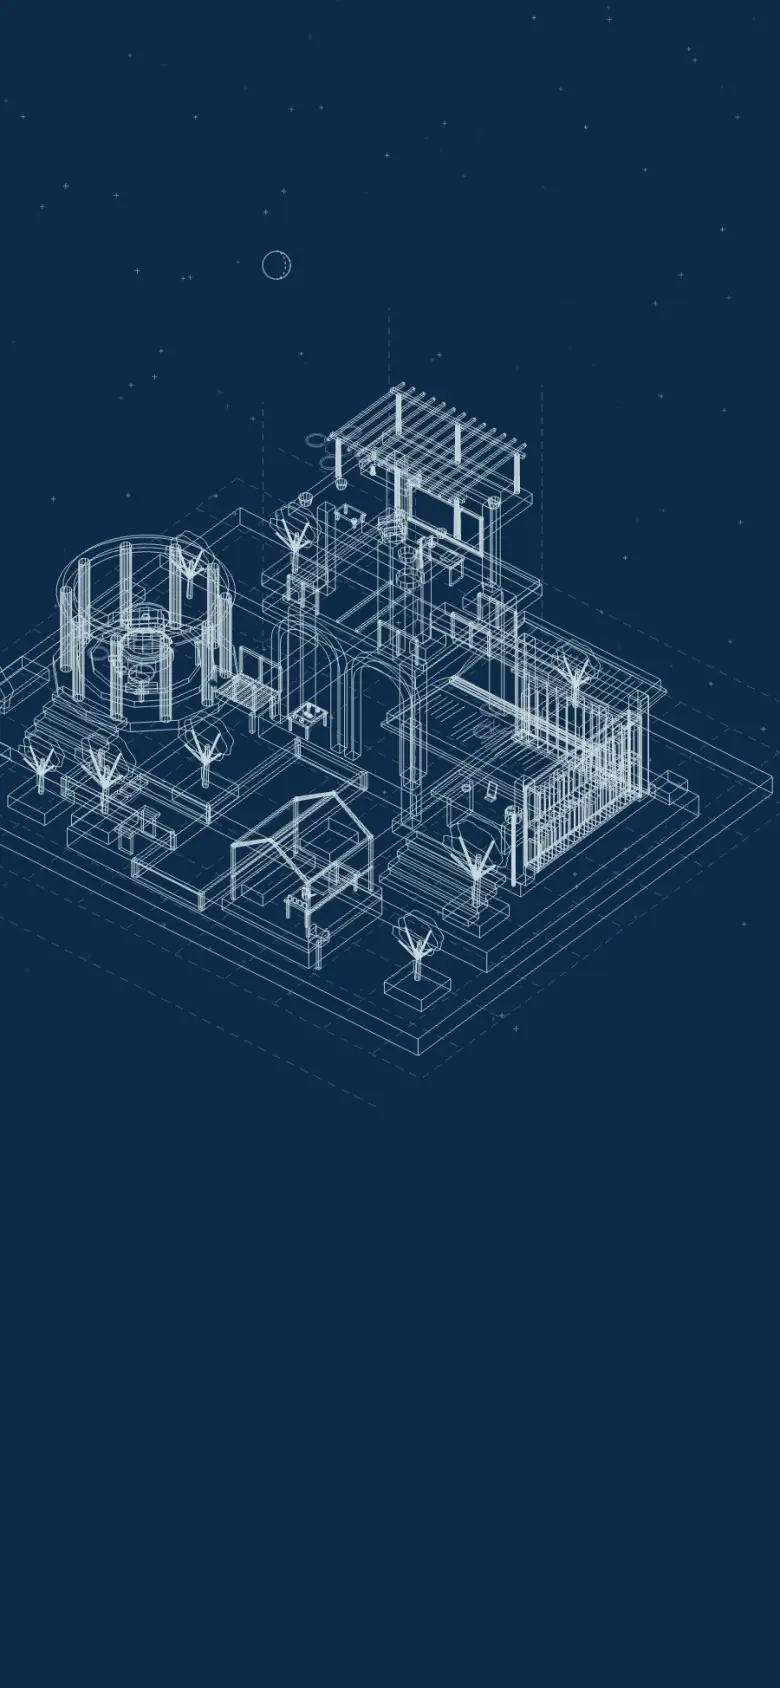
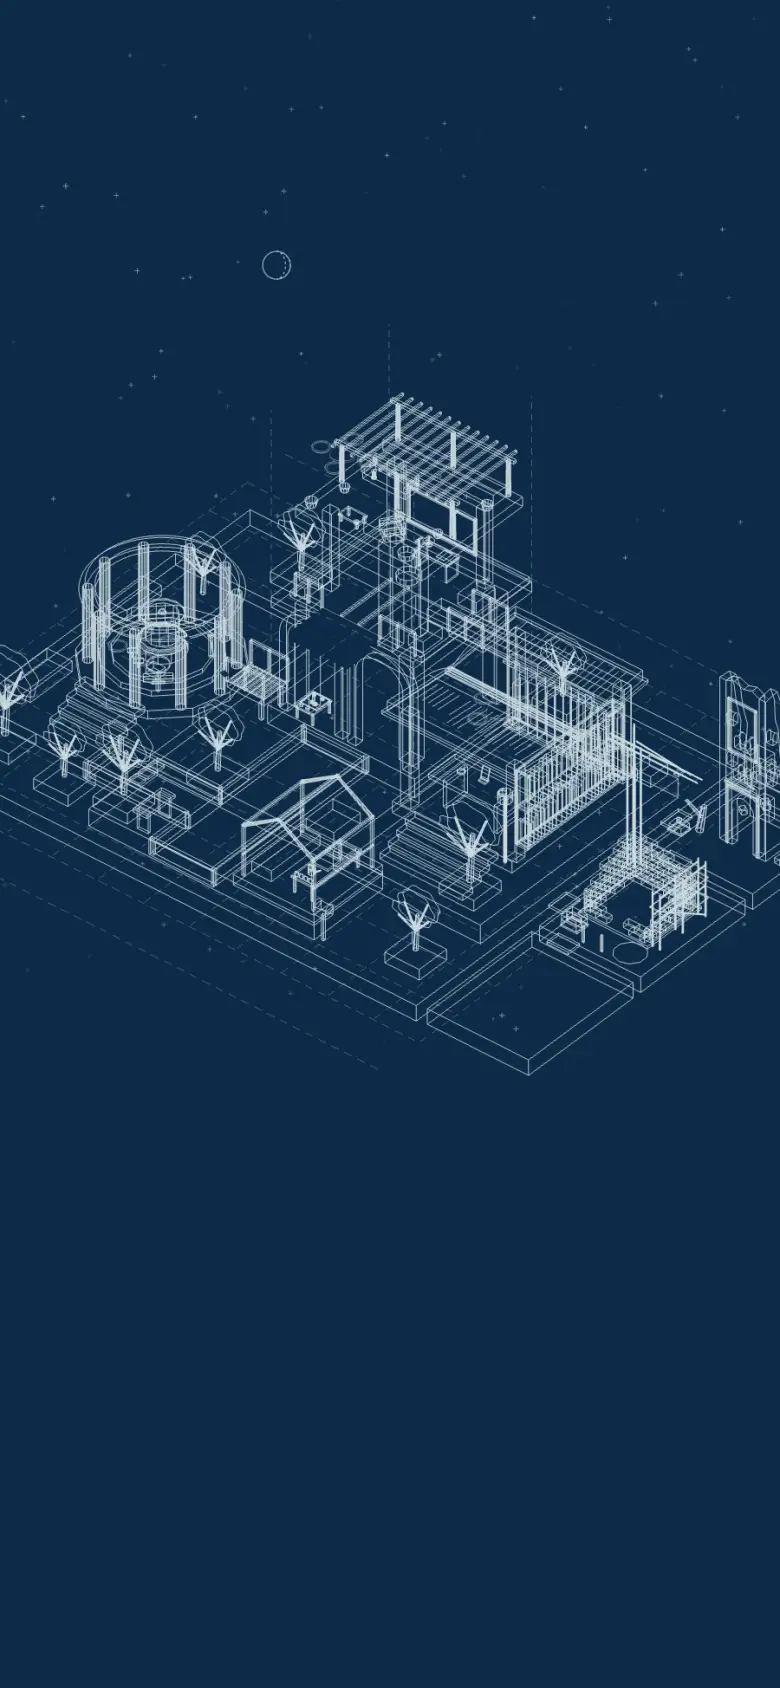
add,scene,enhance garden scene with Mansourah minaret and related structures

Changed region(s): [[0.0, 0.2156, 1.0, 0.6161]]

diff --git a/src/scene.ts b/src/scene.ts
@@ -132,6 +132,9 @@ export async function createGarden(
     // their colour all year and don't sway.
     ochre: 0xe7b763,
     terracotta: 0xce8265,
+    // The warm, rosy stone of Mansourah, and its shade for carved relief.
+    sandstone: 0xd8a87c,
+    sandstoneDark: 0xb98559,
   };
   type ColorName = keyof typeof colors;
   const batches = new Map<ColorName, T.BufferGeometry[]>();
@@ -1093,6 +1096,327 @@ export async function createGarden(
   for (const z of [3.25, 3.8]) box(-0.98, 0.68, z, 0.24, 0.48, 0.05, "dark");
   cylinder(4.36, 1.4, 0.75, 0.027, 1.6, "dark");
   cylinder(4.36, 2.21, 0.75, 0.13, 0.19, "flower");
+
+  await checkpoint("mansourah");
+  // A tile of its own beside the garden: the Mansourah minaret of Tlemcen.
+  // Only its front half still stands, so the gate faces forward and the
+  // side walls break off in steps towards the back. Uses vary(), not
+  // random(), so the rest of the garden keeps its sequence.
+  const tileX = 6.7,
+    tileZ = -2.975;
+  box(tileX, -0.03, tileZ, 2.2, 0.38, 2.75, "stone");
+  box(5.5, 0.13, tileZ + 0.6, 0.3, 0.06, 0.46, "light");
+  // Up one side of a pointed horseshoe arch and down the other, from the
+  // foot of its jambs at (x, y), springing at y + h with half-width r.
+  const horseshoe = (x: number, y: number, r: number, h: number) => {
+    const R = r * 1.25,
+      o = R - r,
+      turn = 0.3,
+      top = Math.acos(-o / R),
+      jamb = R * Math.cos(turn) - o,
+      side: [number, number][] = [];
+    for (let i = 0; i <= 8; i++) {
+      const a = Math.PI + turn - (i / 8) * (Math.PI + turn - top);
+      side.push([o + R * Math.cos(a), h + R * Math.sin(a)]);
+    }
+    return [
+      [-jamb, 0],
+      ...side,
+      ...side.reverse().map(([u, v]) => [-u, v]),
+      [jamb, 0],
+    ].map(([u, v]) => new T.Vector2(x + u, y + v));
+  };
+  const minX = tileX + 0.2,
+    minZ = tileZ + 0.05,
+    minY = 0.16,
+    minH = 4,
+    front = minZ + 0.5;
+  // The gate's façade, with the balcony's three arches and two windows.
+  const facade = new T.Shape([
+    new T.Vector2(-0.36, 0),
+    ...horseshoe(0, 0, 0.24, 0.95),
+    new T.Vector2(0.36, 0),
+    new T.Vector2(0.36, minH - 0.1),
+    new T.Vector2(0.2, minH),
+    new T.Vector2(0.02, minH - 0.06),
+    new T.Vector2(-0.18, minH + 0.03),
+    new T.Vector2(-0.36, minH - 0.05),
+  ]);
+  for (const x of [-0.15, 0, 0.15])
+    facade.holes.push(new T.Path(horseshoe(x, 1.66, 0.055, 0.18)));
+  for (const x of [-0.11, 0.11])
+    facade.holes.push(new T.Path(horseshoe(x, 2.42, 0.07, 0.22)));
+  add(
+    new T.ExtrudeGeometry(facade, { depth: 0.14, bevelEnabled: false }),
+    minX,
+    minY,
+    front - 0.14,
+    "sandstone",
+  );
+  // The side walls, measured back from the façade, end in a ragged edge.
+  const ruin: [number, number][][] = [
+    [[0.86, 0], [0.86, 0.45], [0.7, 0.62], [0.62, 1.3], [0.68, 1.5], [0.55, 2.1],
+      [0.5, 2.8], [0.42, 3.1], [0.4, 3.6], [0.3, minH - 0.05], [0, minH - 0.1]],
+    [[0.8, 0], [0.8, 0.7], [0.66, 0.9], [0.66, 1.6], [0.52, 1.9], [0.56, 2.5],
+      [0.44, 3.0], [0.38, 3.5], [0.26, minH - 0.08], [0, minH - 0.05]],
+  ];
+  ruin.forEach((edge, k) => {
+    const wall = new T.Shape(
+      [[0, 0], ...edge].map(([u, v]) => new T.Vector2(u, v)),
+    );
+    for (const y of [1.7, 2.7])
+      wall.holes.push(new T.Path(horseshoe(0.25, y, 0.06, 0.2)));
+    add(
+      new T.ExtrudeGeometry(wall, { depth: 0.14, bevelEnabled: false }),
+      k ? minX - 0.5 : minX + 0.36,
+      minY,
+      front,
+      "sandstone",
+      [0, Math.PI / 2, 0],
+    );
+  });
+  // What is left of the back wall.
+  box(minX, minY + 0.14, minZ - 0.43, 0.72, 0.28, 0.14, "sandstone");
+  box(minX - 0.25, minY + 0.25, minZ - 0.43, 0.22, 0.5, 0.14, "sandstone");
+  // Carved relief on the façade: the frame round the gate, a cornice and
+  // the balcony's ledge, the lozenge net of the sebka panel, and the band
+  // of green and white tiles near the top.
+  const relief = (x: number, y: number, w: number, h: number, d = 0.025) =>
+    box(minX + x, minY + y, front + d / 2, w, h, d, "sandstoneDark");
+  for (const x of [-0.33, 0.33]) relief(x, 0.71, 0.045, 1.42);
+  relief(0, 1.42, 0.7, 0.045);
+  relief(0, 1.52, 0.72, 0.06, 0.05);
+  relief(0, 1.63, 0.5, 0.04, 0.12);
+  for (const x of [-0.29, 0.29]) relief(x, 2.94, 0.04, 1.24);
+  for (const y of [2.32, 3.56]) relief(0, y, 0.62, 0.04);
+  for (let row = 0; row < 5; row++)
+    for (let col = 0; col < 4 + (row % 2); col++)
+      add(
+        new T.BoxGeometry(0.08, 0.08, 0.02),
+        minX - 0.18 - (row % 2) * 0.06 + col * 0.12,
+        minY + 2.84 + row * 0.14,
+        front + 0.01,
+        "sandstoneDark",
+        [0, 0, Math.PI / 4],
+        false,
+      );
+  for (let i = 0; i < 9; i++)
+    box(minX - 0.32 + i * 0.08, minY + 3.76, front + 0.008, 0.07, 0.09, 0.016,
+      i % 2 ? "light" : "dark", false);
+  // Mansourah's rammed-earth rampart behind, with a square tower and merlons.
+  box(tileX + 0.05, minY + 0.2, tileZ - 1.15, 1.9, 0.4, 0.16, "sandstoneDark");
+  box(tileX - 0.8, minY + 0.32, tileZ - 1.1, 0.36, 0.64, 0.36, "sandstoneDark");
+  for (let i = 0; i < 8; i++)
+    if (i !== 4 && i !== 5)
+      box(tileX - 0.6 + i * 0.22, minY + 0.46, tileZ - 1.15, 0.1, 0.12, 0.16,
+        "sandstoneDark");
+  // Fallen blocks, an old olive tree and a little grass.
+  for (const [x, z, s] of [
+    [0.75, -0.55, 0.16],
+    [-0.25, -0.6, 0.13],
+    [0.9, 0.4, 0.12],
+    [-0.45, -0.25, 0.1],
+  ])
+    add(new T.BoxGeometry(s * 1.4, s, s), tileX + x, minY + s / 2, tileZ + z, "sandstone", [
+      0,
+      vary(x, z) * 3,
+      0,
+    ]);
+  const olive = new T.Vector3(tileX - 0.7, minY, tileZ + 0.6);
+  beam(olive, olive.clone().add(new T.Vector3(0.07, 0.6, -0.04)), 0.07);
+  beam(
+    olive.clone().add(new T.Vector3(0.04, 0.35, 0)),
+    olive.clone().add(new T.Vector3(-0.2, 0.7, 0.1)),
+    0.035,
+  );
+  for (let i = 0; i < 7; i++) {
+    const a = i * 2.4,
+      r = 0.12 + vary(i, 7) * 0.2;
+    const g = new T.IcosahedronGeometry(0.17 + vary(i, 8) * 0.08, 1);
+    g.scale(1, 0.7, 1);
+    add(
+      g,
+      olive.x + Math.cos(a) * r,
+      olive.y + 0.72 + vary(i, 9) * 0.22,
+      olive.z + Math.sin(a) * r,
+      i % 2 ? "leaf" : "leafDark",
+      [vary(i, 10), vary(i, 11), 0],
+      false,
+    );
+  }
+  for (let i = 0; i < 10; i++)
+    add(
+      new T.ConeGeometry(0.05, 0.22, 4),
+      tileX - 1.0 + vary(i, 12) * 2.0,
+      minY + 0.1,
+      tileZ - 0.75 + vary(i, 13) * 1.6,
+      "grass",
+      [0, vary(i, 14) * 4, 0.2],
+      false,
+    );
+
+  await checkpoint("building-site");
+  // In front of Mansourah, two more tiles: a building site, then a plot left
+  // empty for whatever comes next.
+  const siteZ = tileZ + 2.95,
+    siteY = 0.22;
+  box(tileX, -0.03, siteZ, 2.2, 0.38, 2.75, "stone");
+  box(tileX, -0.03, siteZ + 2.95, 2.2, 0.38, 2.75, "stone");
+  box(tileX - 0.5, 0.13, tileZ + 1.475, 0.46, 0.06, 0.3, "light");
+  box(tileX - 0.5, 0.13, siteZ + 1.475, 0.46, 0.06, 0.3, "light");
+  box(5.5, 0.13, siteZ + 0.6, 0.3, 0.06, 0.46, "light");
+  box(tileX - 0.05, 0.19, siteZ, 1.5, 0.06, 1.42, "trim");
+  // Walls laid in courses of stone, running bond, each column of a wall as
+  // high as it has got so far. The front wall leaves a gap for the door.
+  const course = 0.12,
+    brick = 0.24;
+  const wall = (
+    x: number,
+    z: number,
+    axis: "x" | "z",
+    length: number,
+    heights: number[],
+  ) => {
+    for (let c = 0; c < Math.max(...heights); c++)
+      for (let s = c % 2 ? -brick / 2 : 0; s < length; s += brick) {
+        const a = Math.max(s, 0),
+          b = Math.min(s + brick, length);
+        if (c >= heights[Math.floor((a + b) / 2 / brick)]) continue;
+        const along = (a + b) / 2;
+        box(
+          axis === "x" ? x + along : x,
+          siteY + course * (c + 0.5),
+          axis === "z" ? z + along : z,
+          axis === "x" ? b - a : 0.14,
+          course,
+          axis === "z" ? b - a : 0.14,
+          "light",
+        );
+      }
+  };
+  const x0 = tileX - 0.7,
+    x1 = tileX + 0.6,
+    z0 = siteZ - 0.6,
+    z1 = siteZ + 0.6;
+  wall(x0, z0, "x", x1 - x0, [9, 9, 8, 8, 7, 6]);
+  wall(x0, z0 + 0.07, "z", z1 - z0 - 0.07, [9, 8, 7, 5, 4]);
+  wall(x1, z0 + 0.07, "z", z1 - z0 - 0.07, [7, 6, 4, 3, 2]);
+  wall(x0, z1, "x", x1 - x0, [3, 2, 0, 0, 2, 1]);
+  // Scaffolding up the right-hand wall: poles, ledgers and two plank decks.
+  const scaffoldX = x1 + 0.2;
+  for (const z of [z0, siteZ, z1])
+    for (const x of [scaffoldX - 0.08, scaffoldX + 0.08])
+      beam(new T.Vector3(x, 0.16, z), new T.Vector3(x, 1.5, z), 0.014);
+  for (const y of [0.62, 1.12]) {
+    box(scaffoldX, y, siteZ, 0.24, 0.025, z1 - z0 + 0.05, "wood");
+    for (const x of [scaffoldX - 0.08, scaffoldX + 0.08])
+      box(x, y + 0.3, siteZ, 0.018, 0.018, z1 - z0, "dark");
+  }
+  beam(
+    new T.Vector3(scaffoldX + 0.08, 0.2, z0),
+    new T.Vector3(scaffoldX + 0.08, 1.1, z1),
+    0.01,
+    "dark",
+  );
+  // A tower crane at the back corner, clear of the minaret's gate, its jib
+  // swung over the walls with a pallet of stone on the hook.
+  const craneX = tileX - 0.88,
+    craneZ = siteZ - 0.85,
+    craneTop = 3.1,
+    m = 0.08;
+  box(craneX, 0.21, craneZ, 0.3, 0.1, 0.3, "trim");
+  for (const dx of [-m, m])
+    for (const dz of [-m, m])
+      beam(
+        new T.Vector3(craneX + dx, 0.26, craneZ + dz),
+        new T.Vector3(craneX + dx, craneTop, craneZ + dz),
+        0.016,
+        "ochre",
+      );
+  // Zigzag bracing on the two faces that can be seen.
+  for (let y = 0.26, k = 1; y < craneTop - 0.1; y += 0.28, k = -k) {
+    beam(
+      new T.Vector3(craneX - k * m, y, craneZ + m),
+      new T.Vector3(craneX + k * m, y + 0.28, craneZ + m),
+      0.008,
+      "ochre",
+      false,
+    );
+    beam(
+      new T.Vector3(craneX + m, y, craneZ - k * m),
+      new T.Vector3(craneX + m, y + 0.28, craneZ + k * m),
+      0.008,
+      "ochre",
+      false,
+    );
+  }
+  box(craneX, craneTop + 0.07, craneZ + m + 0.08, 0.16, 0.14, 0.14, "light");
+  const jibTip = tileX + 0.55,
+    counterEnd = craneX - 0.55;
+  for (const dz of [-0.06, 0.06])
+    beam(
+      new T.Vector3(counterEnd, craneTop, craneZ + dz),
+      new T.Vector3(jibTip, craneTop, craneZ + dz),
+      0.014,
+      "ochre",
+    );
+  beam(
+    new T.Vector3(craneX + 0.05, craneTop + 0.2, craneZ),
+    new T.Vector3(jibTip - 0.2, craneTop + 0.05, craneZ),
+    0.012,
+    "ochre",
+  );
+  for (let i = 0; i < 8; i++) {
+    const xa = craneX + 0.05 + i * 0.17,
+      t = i / 8;
+    beam(
+      new T.Vector3(xa, craneTop, craneZ),
+      new T.Vector3(xa + 0.085, craneTop + 0.2 - t * 0.15, craneZ),
+      0.007,
+      "ochre",
+      false,
+    );
+  }
+  beam(
+    new T.Vector3(craneX, craneTop, craneZ),
+    new T.Vector3(craneX, craneTop + 0.6, craneZ),
+    0.016,
+    "ochre",
+  );
+  for (const end of [jibTip - 0.1, counterEnd + 0.05])
+    beam(
+      new T.Vector3(craneX, craneTop + 0.6, craneZ),
+      new T.Vector3(end, craneTop + 0.03, craneZ),
+      0.005,
+      "dark",
+      false,
+    );
+  box(counterEnd + 0.12, craneTop - 0.05, craneZ, 0.2, 0.22, 0.2, "trim");
+  const hookX = tileX + 0.1;
+  box(hookX, craneTop - 0.03, craneZ, 0.1, 0.05, 0.16, "dark");
+  beam(
+    new T.Vector3(hookX, craneTop - 0.05, craneZ),
+    new T.Vector3(hookX, 1.95, craneZ),
+    0.004,
+    "dark",
+    false,
+  );
+  box(hookX, 1.9, craneZ, 0.06, 0.08, 0.06, "dark");
+  for (const dx of [-0.12, 0.12])
+    beam(new T.Vector3(hookX, 1.86, craneZ), new T.Vector3(hookX + dx, 1.7, craneZ), 0.004, "dark", false);
+  box(hookX, 1.68, craneZ, 0.3, 0.03, 0.26, "wood");
+  box(hookX, 1.76, craneZ, 0.26, 0.13, 0.22, "light");
+  // On the ground: a pallet of stone, a heap of sand, and a striped barrier.
+  box(tileX - 0.65, 0.18, siteZ + 1.0, 0.36, 0.04, 0.3, "wood");
+  for (let i = 0; i < 2; i++)
+    for (let j = 0; j < 2; j++)
+      box(tileX - 0.65, 0.26 + i * course, siteZ + 0.93 + j * 0.15, 0.32, course, 0.14, "light");
+  add(new T.ConeGeometry(0.3, 0.26, 10), tileX + 0.55, 0.29, siteZ + 0.98, "trim");
+  for (const x of [tileX - 0.25, tileX + 0.15])
+    box(x, 0.36, siteZ + 1.25, 0.03, 0.4, 0.03, "dark");
+  for (let i = 0; i < 6; i++)
+    box(tileX - 0.29 + i * 0.08 + 0.04, 0.48, siteZ + 1.25, 0.08, 0.07, 0.025,
+      i % 2 ? "dark" : "ochre", false);
 
   await checkpoint("geometry-batches");
   const solidMeshes: T.Mesh[] = [];
@@ -2915,7 +3239,9 @@ export async function createGarden(
     whisperbook: { at: new T.Vector3(3.4, 1.7, -0.55), zoom: 1.6 },
     wattch: { at: new T.Vector3(-3.4, 1.45, 0.45), zoom: 1.8 },
   };
-  const lookDefault = new T.Vector3(0, 2.4, 0);
+  // Centred on the garden with its strip of tiles on the right, which makes
+  // it wider to the right than to the left.
+  const lookDefault = new T.Vector3(0.55, 2.4, -0.55);
   const sunColor = new T.Color();
   function applyLight() {
     // 6:00 sunrise, 13:00 high sun, 20:00 sunset.
@@ -3110,9 +3436,9 @@ export async function createGarden(
     const aspect = width / (height * band);
     const stackedMobile = innerWidth <= 760 && innerHeight > 520;
     const span = stackedMobile
-      ? Math.max(12.8, 15.2 / aspect)
+      ? Math.max(12.8, 16.4 / aspect)
       : aspect < 0.9
-        ? 15.3 / aspect
+        ? 16.4 / aspect
         : 15.6;
     const half = span / 2 / (1 + focusAmount * focusZoom);
     const full = half / band;
